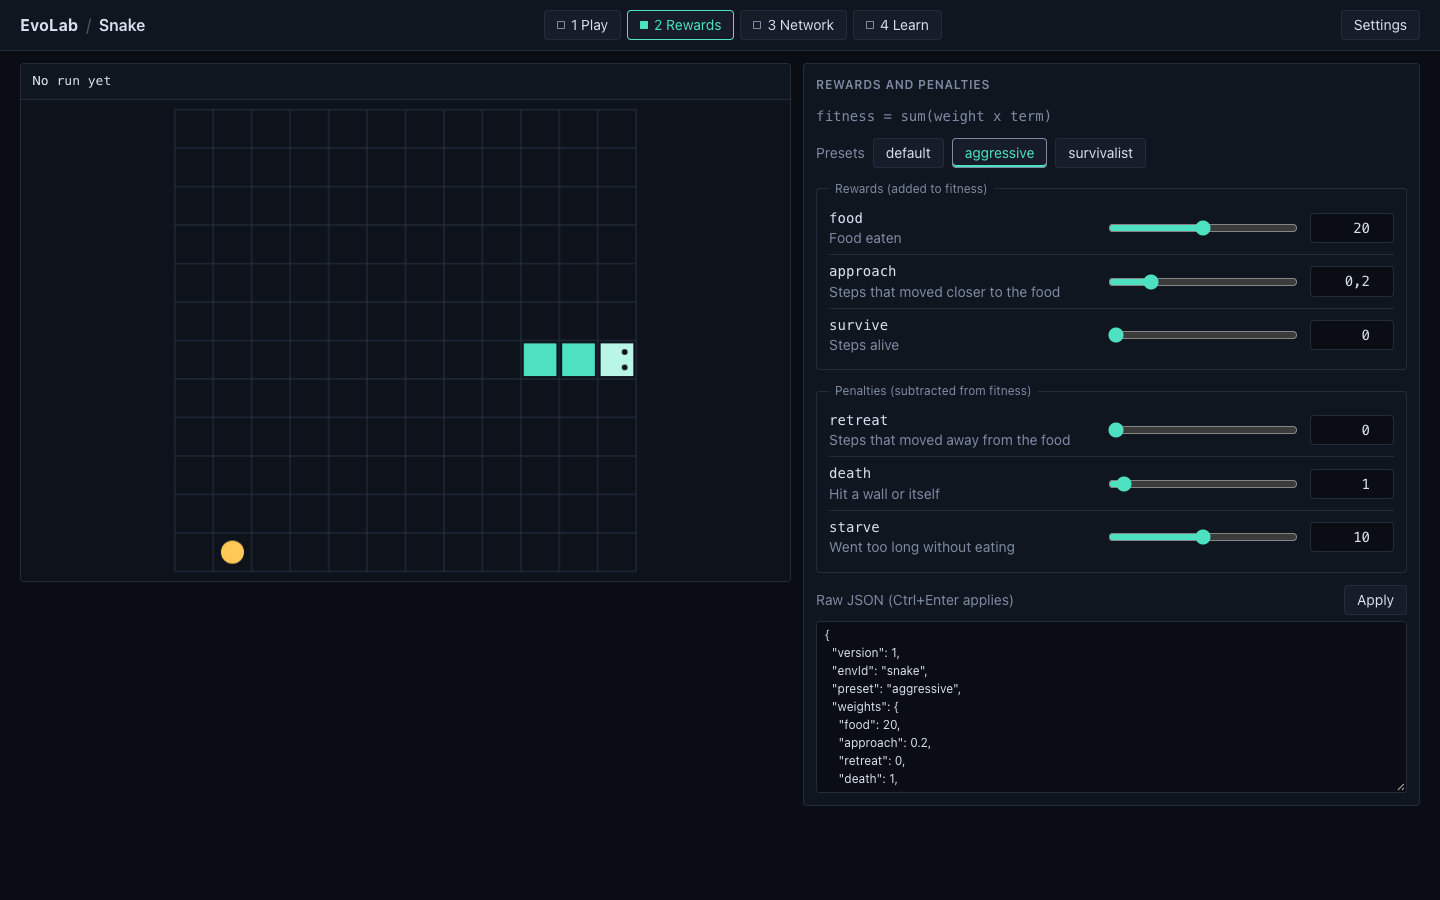
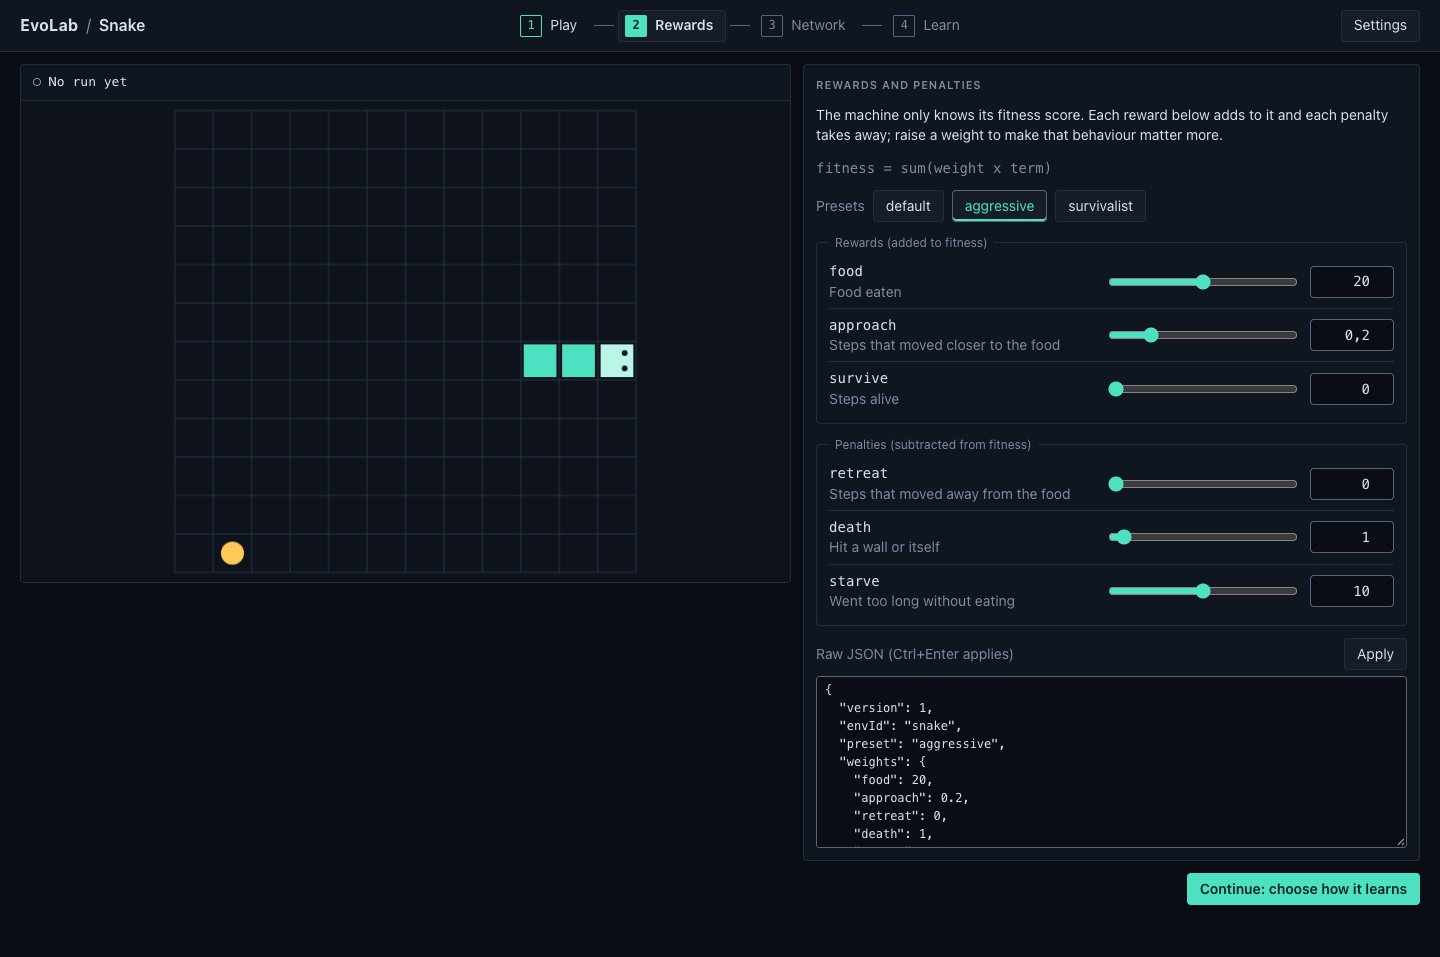
docs: refresh screenshots after the polish pass, add two mobile captures

diff --git a/tests/e2e/screenshots.spec.ts b/tests/e2e/screenshots.spec.ts
@@ -37,6 +37,9 @@ test.describe('visual acceptance screenshots', () => {
     await expect(page.locator('a.card')).toHaveCount(6);
     await expect(page.getByTestId('new-concept')).toBeVisible();
     await shot(page, '01-gallery');
+    await page.setViewportSize({ width: 390, height: 844 });
+    await shot(page, '17-mobile-gallery');
+    await page.setViewportSize({ width: 1440, height: 900 });
     await page.getByTestId('nav-settings').click();
     await expect(page.getByTestId('settings-base-url')).toHaveValue('http://localhost:11434/v1');
     await expect(page.getByTestId('settings-remote-warning')).toBeHidden();
@@ -51,6 +54,10 @@ test.describe('visual acceptance screenshots', () => {
     await learnLive(page, 'pong', 20);
     await expect(page.getByTestId('toggle-ghosts')).toBeChecked();
     await shot(page, '03-pong-learn');
+    await page.setViewportSize({ width: 390, height: 844 });
+    await expect(page.getByTestId('step-4')).toBeVisible();
+    await shot(page, '18-mobile-learn');
+    await page.setViewportSize({ width: 1440, height: 900 });
     await vis(page, 'nn-show-disabled').check();
     expect(await attr(vis(page, 'nn-graph'), 'data-nodes')).toBeGreaterThanOrEqual(9);
     await vis(page, 'nn-graph').scrollIntoViewIfNeeded();

diff --git a/README.md b/README.md
@@ -17,6 +17,7 @@ EvoLab is a browser lab where you watch neural networks learn to play. Pick a co
 | ![Tetris learning](docs/screenshots/07-tetris-learn.png) Tetris: the network scores every possible landing spot. | ![Network view](docs/screenshots/10-network-neat.png) The champion's network, with disabled connections shown. |
 | ![Pong with DQN](docs/screenshots/12-dqn-pong.png) DQN on Pong: loss, epsilon and Q-values. | ![Car with PPO](docs/screenshots/13-ppo-car.png) PPO on the car: policy and value loss, entropy, action means. |
 | ![Champion replay](docs/screenshots/14-replay.png) The hall of fame replays any earlier champion. | ![Generated concept](docs/screenshots/15-generated.png) A concept generated from text, training like a built-in. |
+| ![Gallery on a phone](docs/screenshots/17-mobile-gallery.png) The gallery at 390 px. | ![Learning on a phone](docs/screenshots/18-mobile-learn.png) The Learn step at 390 px: every panel, one column. |
 
 ## Run it
 
